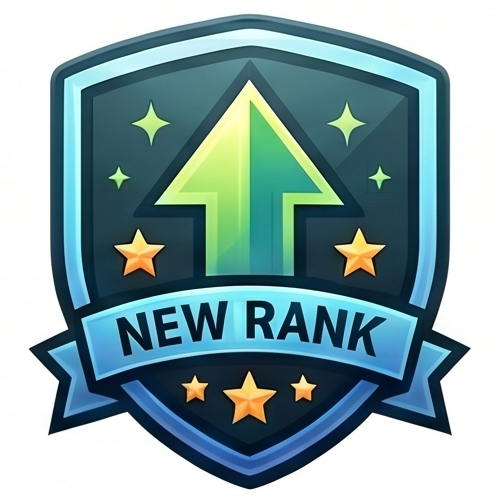
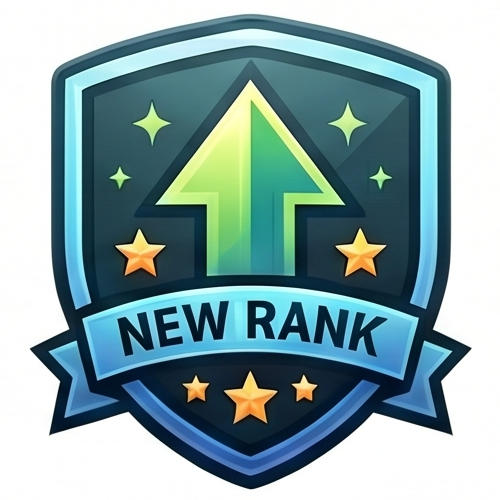
Badge updates

diff --git a/css/styles.css b/css/styles.css
@@ -5777,7 +5777,7 @@ body.tour-active {
 }
 
 .dashboard-layout-card--full {
-  --badge-columns: 7;
+  --badge-columns: 8;
 }
 
 .badge-card {

diff --git a/php/badges.php b/php/badges.php
@@ -14,6 +14,11 @@ function hh_badge_definitions(): array
         'IN' => ['token' => 'IN', 'image' => 'img/badges/predictions-in.png', 'title' => 'Predictions In', 'description' => 'Save your first stage of predictions.'],
         'PT' => ['token' => 'PT', 'image' => 'img/badges/on-the-move.png', 'title' => 'On The Move', 'description' => 'Pick up your first points.'],
         '7' => ['token' => '7', 'image' => 'img/badges/perfect-seven.png', 'title' => 'Perfect Seven', 'description' => 'Land your first exact 7-pointer.'],
+        'CR' => ['token' => 'CR', 'image' => 'img/badges/crowd-rebel.png', 'title' => 'Crowd Rebel', 'description' => 'Beat the crowd with a different scoreline and still score 2+ points.'],
+        'HS' => ['token' => 'HS', 'image' => 'img/badges/hot-streak.png', 'title' => 'Hot Streak', 'description' => 'Score points in three consecutive recorded fixtures.'],
+        'AC' => ['token' => 'AC', 'image' => 'img/badges/avid-climber.png', 'title' => 'Avid Climber', 'description' => 'Climb 5 or more places in a single results update.'],
+        'DH' => ['token' => 'DH', 'image' => 'img/badges/dizzy-heights.png', 'title' => 'Dizzy Heights', 'description' => 'Break into the top three of the rankings.'],
+        'TFT' => ['token' => 'TFT', 'image' => 'img/badges/top-form-turkey.png', 'title' => 'Top Form Turkey', 'description' => 'Hit three straight 7-pointers in consecutive scored fixtures.'],
         'TH' => ['token' => 'TH', 'image' => 'img/badges/thread-starter.png', 'title' => 'Thread Starter', 'description' => 'Start a message thread in the Fan Zone.'],
         'RP' => ['token' => 'RP', 'image' => 'img/badges/in-the-replies.png', 'title' => 'In The Replies', 'description' => 'Reply to a thread in the Fan Zone.'],
         'PV' => ['token' => 'PV', 'image' => 'img/badges/poll-voter.png', 'title' => 'Poll Voter', 'description' => 'Cast your first vote in a live poll.'],
@@ -69,7 +74,7 @@ function hh_badge_user_identity(mysqli $con, int $userId): ?array
 
     $statement = mysqli_prepare(
         $con,
-        "SELECT id, username
+        "SELECT id, username, lastpos, currpos
          FROM live_user_information
          WHERE id = ?
          LIMIT 1"
@@ -136,12 +141,79 @@ function hh_badge_is_exact_prediction(array $predictionRow, array $resultRow, in
         && (int) $predAway === (int) $actualAway;
 }
 
+function hh_badge_fixture_score_key($homeScore, $awayScore): string
+{
+    if (!is_numeric($homeScore) || !is_numeric($awayScore)) {
+        return '';
+    }
+
+    return (string) ((int) $homeScore) . ':' . (string) ((int) $awayScore);
+}
+
+function hh_badge_popular_prediction_keys_for_fixture(mysqli $con, string $tableName, int $homeIndex, int $awayIndex): array
+{
+    static $cache = [];
+
+    $cacheKey = $tableName . ':' . $homeIndex . ':' . $awayIndex;
+    if (isset($cache[$cacheKey])) {
+        return $cache[$cacheKey];
+    }
+
+    $homeColumn = 'score' . $homeIndex . '_p';
+    $awayColumn = 'score' . $awayIndex . '_p';
+    $result = mysqli_query(
+        $con,
+        "SELECT {$homeColumn} AS home_score, {$awayColumn} AS away_score, COUNT(*) AS prediction_count
+         FROM {$tableName}
+         WHERE {$homeColumn} IS NOT NULL AND {$homeColumn} <> ''
+           AND {$awayColumn} IS NOT NULL AND {$awayColumn} <> ''
+         GROUP BY {$homeColumn}, {$awayColumn}
+         ORDER BY prediction_count DESC, home_score ASC, away_score ASC"
+    );
+
+    if (!($result instanceof mysqli_result)) {
+        $cache[$cacheKey] = [];
+        return $cache[$cacheKey];
+    }
+
+    $popularKeys = [];
+    $topCount = null;
+
+    while ($row = mysqli_fetch_assoc($result)) {
+        $count = (int) ($row['prediction_count'] ?? 0);
+        $scoreKey = hh_badge_fixture_score_key($row['home_score'] ?? null, $row['away_score'] ?? null);
+        if ($scoreKey === '') {
+            continue;
+        }
+
+        if ($topCount === null) {
+            $topCount = $count;
+        }
+
+        if ($count !== $topCount) {
+            break;
+        }
+
+        $popularKeys[] = $scoreKey;
+    }
+
+    mysqli_free_result($result);
+    $cache[$cacheKey] = array_values(array_unique($popularKeys));
+
+    return $cache[$cacheKey];
+}
+
 function hh_badge_stats_for_user(mysqli $con, int $userId): array
 {
     $stats = [
         'has_predictions' => false,
         'points_total' => 0,
         'perfect_predictions' => 0,
+        'crowd_rebel' => false,
+        'hot_streak' => false,
+        'avid_climber' => false,
+        'dizzy_heights' => false,
+        'top_form_turkey' => false,
         'thread_count' => 0,
         'reply_count' => 0,
         'poll_votes' => 0,
@@ -154,6 +226,18 @@ function hh_badge_stats_for_user(mysqli $con, int $userId): array
 
     $latestResults = hh_badge_latest_result_row($con);
     $stageDefinitions = hh_prediction_stage_definitions();
+    $scoringStreak = 0;
+    $perfectStreak = 0;
+    $lastPosition = (int) ($identity['lastpos'] ?? 0);
+    $currentPosition = (int) ($identity['currpos'] ?? 0);
+
+    if ($lastPosition > 0 && $currentPosition > 0 && ($lastPosition - $currentPosition) >= 5) {
+        $stats['avid_climber'] = true;
+    }
+
+    if ($currentPosition > 0 && $currentPosition <= 3) {
+        $stats['dizzy_heights'] = true;
+    }
 
     foreach ($stageDefinitions as $stageKey => $definition) {
         $tableName = (string) ($definition['table'] ?? '');
@@ -177,6 +261,51 @@ function hh_badge_stats_for_user(mysqli $con, int $userId): array
         for ($homeIndex = $startIndex, $awayIndex = $startIndex + 1; $homeIndex <= $endIndex && $awayIndex <= $endIndex; $homeIndex += 2, $awayIndex += 2) {
             if (hh_badge_is_exact_prediction($predictionRow, $latestResults, $homeIndex, $awayIndex)) {
                 $stats['perfect_predictions']++;
+            }
+
+            $detail = hh_prediction_fixture_score_detail(
+                $predictionRow['score' . $homeIndex . '_p'] ?? null,
+                $predictionRow['score' . $awayIndex . '_p'] ?? null,
+                $latestResults['score' . $homeIndex . '_r'] ?? null,
+                $latestResults['score' . $awayIndex . '_r'] ?? null
+            );
+
+            if (!empty($detail['recorded'])) {
+                if ((int) ($detail['points'] ?? 0) > 0) {
+                    $scoringStreak++;
+                    if ($scoringStreak >= 3) {
+                        $stats['hot_streak'] = true;
+                    }
+                } else {
+                    $scoringStreak = 0;
+                }
+
+                if ((int) ($detail['points'] ?? 0) === 7) {
+                    $perfectStreak++;
+                    if ($perfectStreak >= 3) {
+                        $stats['top_form_turkey'] = true;
+                    }
+                } else {
+                    $perfectStreak = 0;
+                }
+            }
+
+            if ((int) ($detail['points'] ?? 0) < 2) {
+                continue;
+            }
+
+            $playerScoreKey = hh_badge_fixture_score_key(
+                $predictionRow['score' . $homeIndex . '_p'] ?? null,
+                $predictionRow['score' . $awayIndex . '_p'] ?? null
+            );
+
+            if ($playerScoreKey === '') {
+                continue;
+            }
+
+            $popularScoreKeys = hh_badge_popular_prediction_keys_for_fixture($con, $tableName, $homeIndex, $awayIndex);
+            if ($popularScoreKeys !== [] && !in_array($playerScoreKey, $popularScoreKeys, true)) {
+                $stats['crowd_rebel'] = true;
             }
         }
     }
@@ -252,6 +381,11 @@ function hh_badge_is_earned(string $token, array $stats): bool
         'IN' => !empty($stats['has_predictions']),
         'PT' => (int) ($stats['points_total'] ?? 0) > 0,
         '7' => (int) ($stats['perfect_predictions'] ?? 0) > 0,
+        'CR' => !empty($stats['crowd_rebel']),
+        'HS' => !empty($stats['hot_streak']),
+        'AC' => !empty($stats['avid_climber']),
+        'DH' => !empty($stats['dizzy_heights']),
+        'TFT' => !empty($stats['top_form_turkey']),
         'TH' => (int) ($stats['thread_count'] ?? 0) > 0,
         'RP' => (int) ($stats['reply_count'] ?? 0) > 0,
         'PV' => (int) ($stats['poll_votes'] ?? 0) > 0,